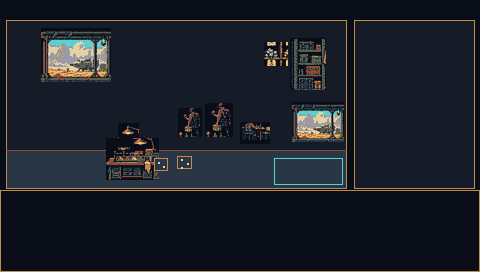
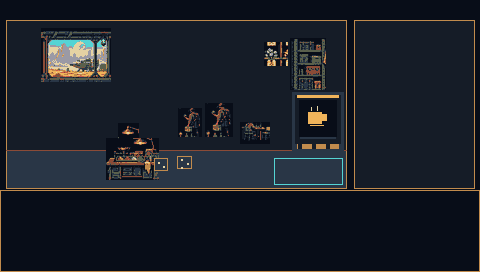
Polish native Freight door hatch pair

Changed region(s): [[0.5938, 0.3235, 0.7188, 0.5588]]

diff --git a/docs/reusable-element-kit/VISUAL-QUALITY-AUDIT.md b/docs/reusable-element-kit/VISUAL-QUALITY-AUDIT.md
@@ -1,0 +1,25 @@
+# Reusable element visual-quality audit
+
+Audit scope: current native Freight/Prospector/Research candidate elements, station cue kit, ship preview, targeting scope, and normal/high-contrast proof frames. No runtime integration changes were made.
+
+## Weakest elements ranked
+
+1. **Door hatch — failed before this pass.** The previous Freight candidate was a window crop and did not read as an exit at 1x. Replaced with the canonical 52x60 native station-door pair from the cue kit. This preserves the frozen ID, pivot, hitbox, palette, and 1,560 packed-byte cost per variant.
+2. **Panel sign — weak but usable.** The current 48x24 candidate has a readable cream label field, but its source crop is visually busier than the door and needs a family-specific sign pass once Station confirms the supported room label.
+3. **Task lamp — small but acceptable.** The 21x18 silhouette reads at native size; contrast preserves the fixture edge. It should remain a secondary cue, never the only activity indicator.
+4. **People — readable silhouettes, limited identity.** Standing/carrying/seated roles survive native scale and contrast, but Story should approve the pose-to-role mapping before these become named station actors.
+5. **Ship preview / targeting scope — structurally strong, evidence incomplete.** Native clipping and bounded geometry are present; integrated normal/contrast captures and performance evidence remain outstanding.
+
+## Upgraded asset set
+
+- `assets/preview/reusable-element-kit/freight-elements/door-hatch-normal.png`
+- `assets/preview/reusable-element-kit/freight-elements/door-hatch-contrast.png`
+- Native size: `52x60`
+- Packed estimate: `1,560` bytes per variant
[2 lines of base64/hex data omitted]
+- Proof regenerated: `assets/preview/reusable-element-kit/family-freight-elements-normal-native.png` and `family-freight-elements-contrast-native.png`
+
+## Outcome
+
+The door-hatch weakness is corrected without changing runtime ownership or adding an interaction. The remaining visual work is panel-sign identity and stronger person-role readability; both are art-quality follow-ups, not permission to broaden station capabilities. Candidate status remains `runtime_ready:false` until the existing Systems/Station/Story gates pass.
